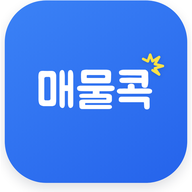
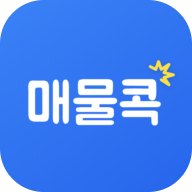
매물콕 아이콘 모서리 흰 여백 제거: 바탕화면·홈화면 아이콘을 투명 모서리로, iOS 홈화면 아이콘은 파란 배경 풀블리드로 재생성

Changed region(s): [[0.125, 0.2812, 0.9062, 0.6562], [0.0, 0.0312, 1.0, 1.0], [0.125, 0.0, 0.875, 0.0312]]

diff --git a/index.html b/index.html
@@ -6,10 +6,10 @@
 <meta name="robots" content="noindex, nofollow">
 <meta name="theme-color" content="#ffffff">
 <title>매물콕 · 공인중개사 전용 매물장</title>
-<link rel="manifest" href="manifest.webmanifest?v=1">
-<link rel="icon" type="image/png" href="favicon.png?v=2">
-<link rel="icon" href="favicon.ico?v=1" sizes="any">
-<link rel="apple-touch-icon" href="assets/apple-touch-icon.png?v=2">
+<link rel="manifest" href="manifest.webmanifest?v=2">
+<link rel="icon" type="image/png" href="favicon.png?v=3">
+<link rel="icon" href="favicon.ico?v=2" sizes="any">
+<link rel="apple-touch-icon" href="assets/apple-touch-icon.png?v=3">
 <link rel="stylesheet" href="app.css?v=28">
 </head>
 <body>
@@ -24,7 +24,7 @@
   <!-- 왼쪽: 브랜드 · 소개 · 장점 카드 (PC 55%) -->
   <section class="auth-left">
     <div class="auth-brand">
-      <img class="auth-mark" src="assets/maemulcok-logo.png?v=2" alt="매물콕">
+      <img class="auth-mark" src="assets/maemulcok-logo.png?v=3" alt="매물콕">
       <span class="auth-name">매물콕</span>
       <i class="auth-bar"></i>
       <span class="auth-tag">공인중개사 전용 매물장</span>
@@ -73,7 +73,7 @@
   <section class="auth-right">
   <div class="auth-card">
     <div class="auth-cardbrand">
-      <img src="assets/maemulcok-logo.png?v=2" alt="">
+      <img src="assets/maemulcok-logo.png?v=3" alt="">
       <b>매물콕</b><span>공인중개사 전용</span>
     </div>
     <h2 class="auth-h" id="auth-h">로그인</h2>
@@ -198,7 +198,7 @@
     <div class="bar-in">
       <div class="row1">
         <div class="brand">
-          <img class="brand-mark" src="assets/maemulcok-logo.png?v=2" alt="매물콕">
+          <img class="brand-mark" src="assets/maemulcok-logo.png?v=3" alt="매물콕">
           <span class="brand-txt">
             <span class="brand-name">매물콕<span class="sep">·</span><span class="office" id="hd-office">사무소</span></span>
             <small><span id="hd-cx">단지</span><span class="hd-sub"> 동호수 배치표 | </span> <b id="hs-all">0</b>세대 | 내 매물 <b id="c-seed">0</b>호실</small>
